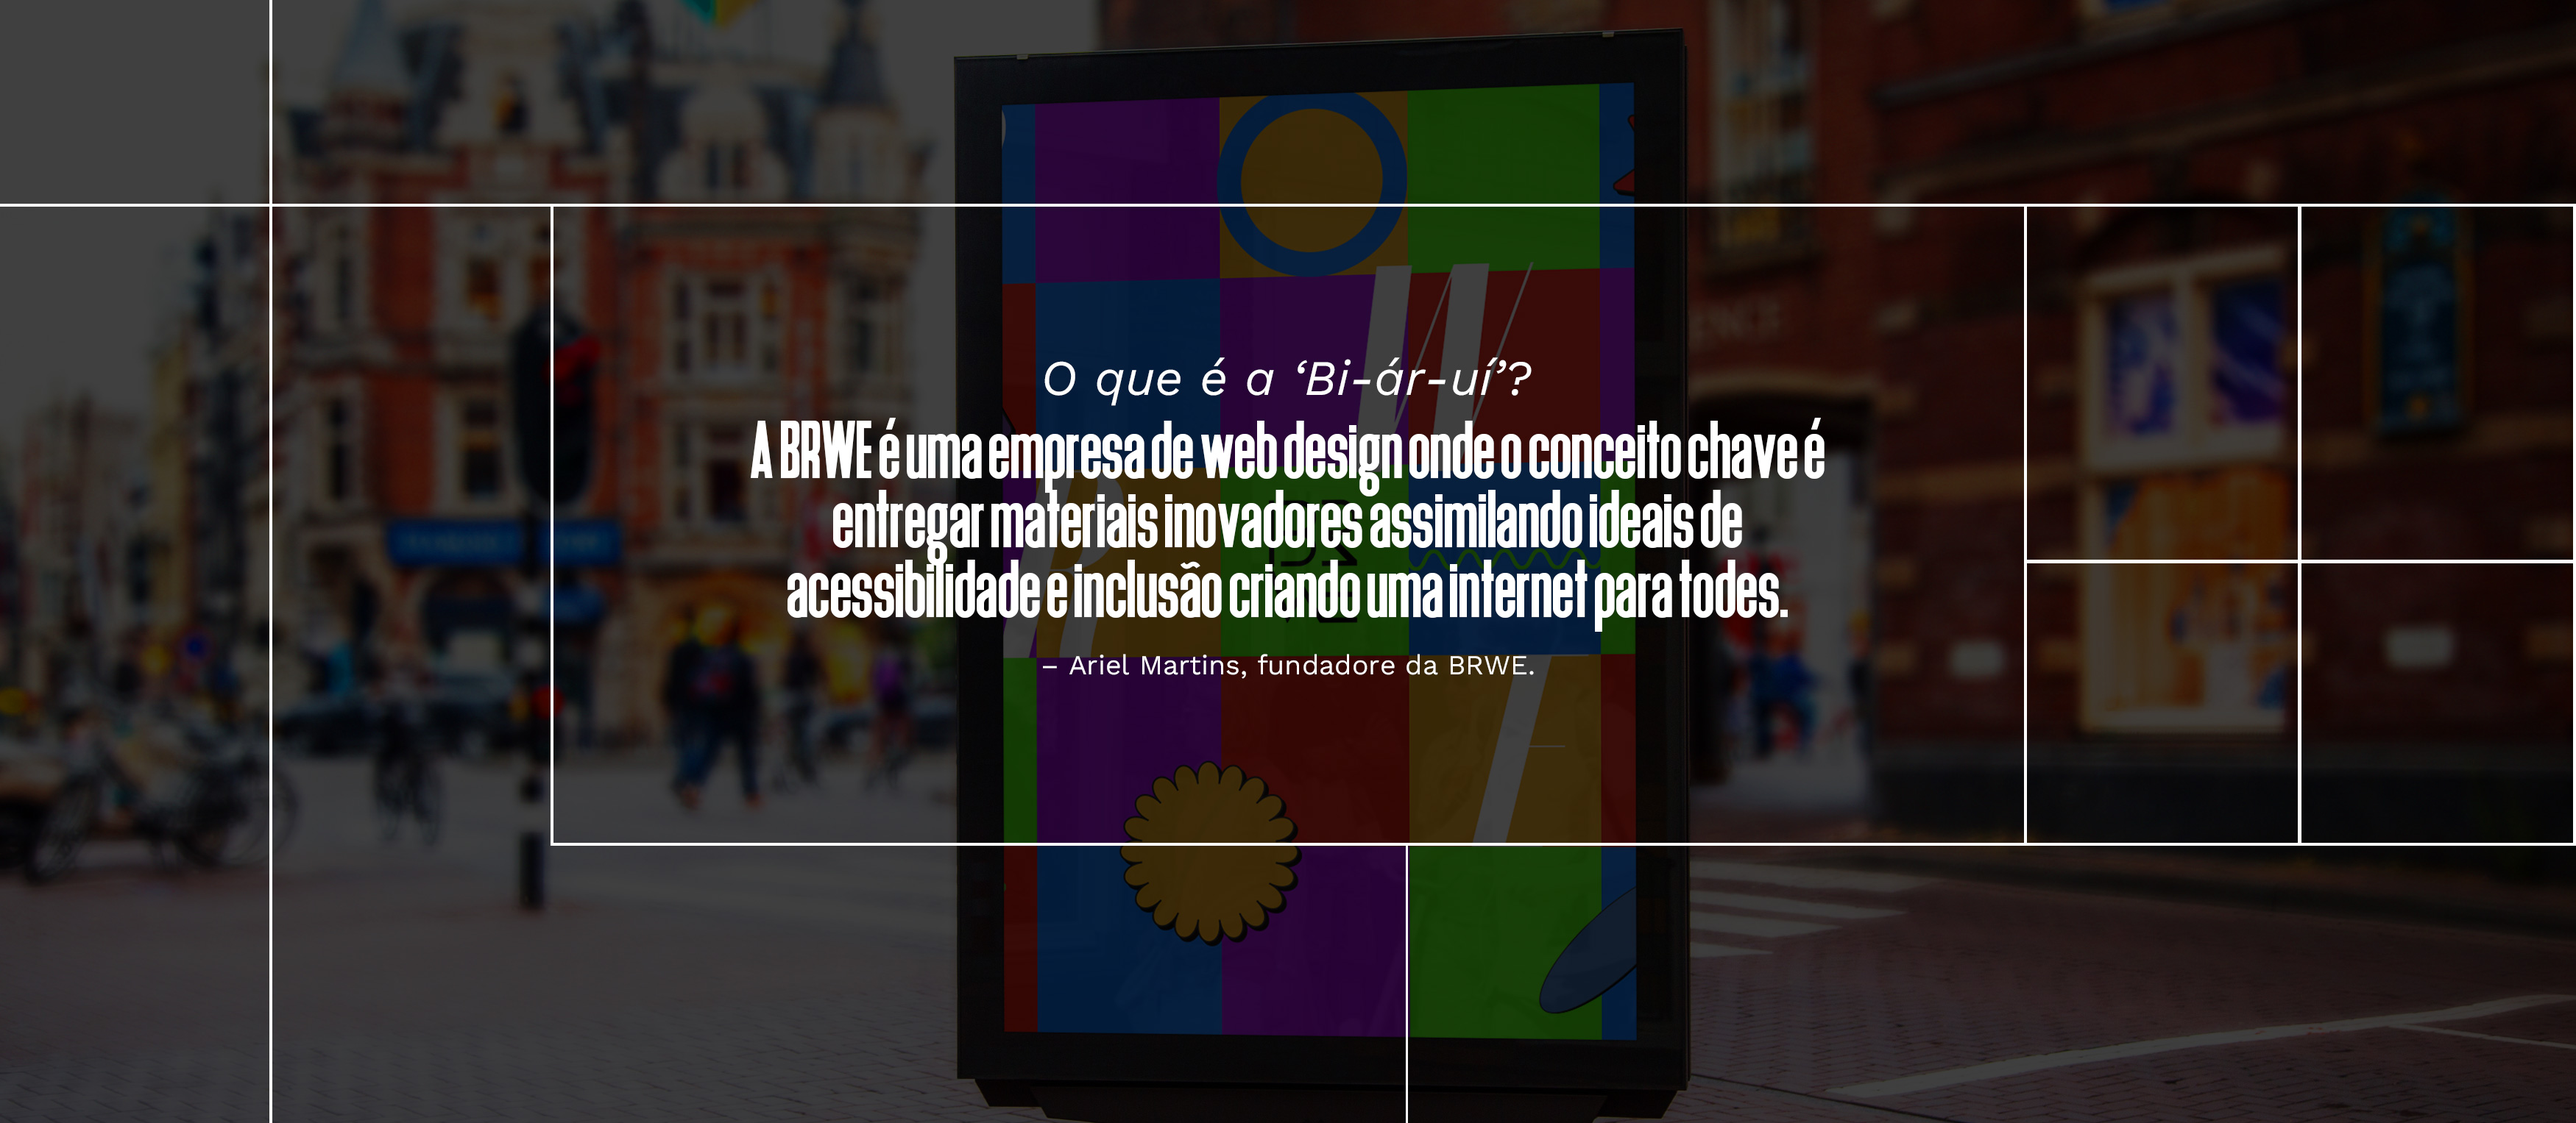
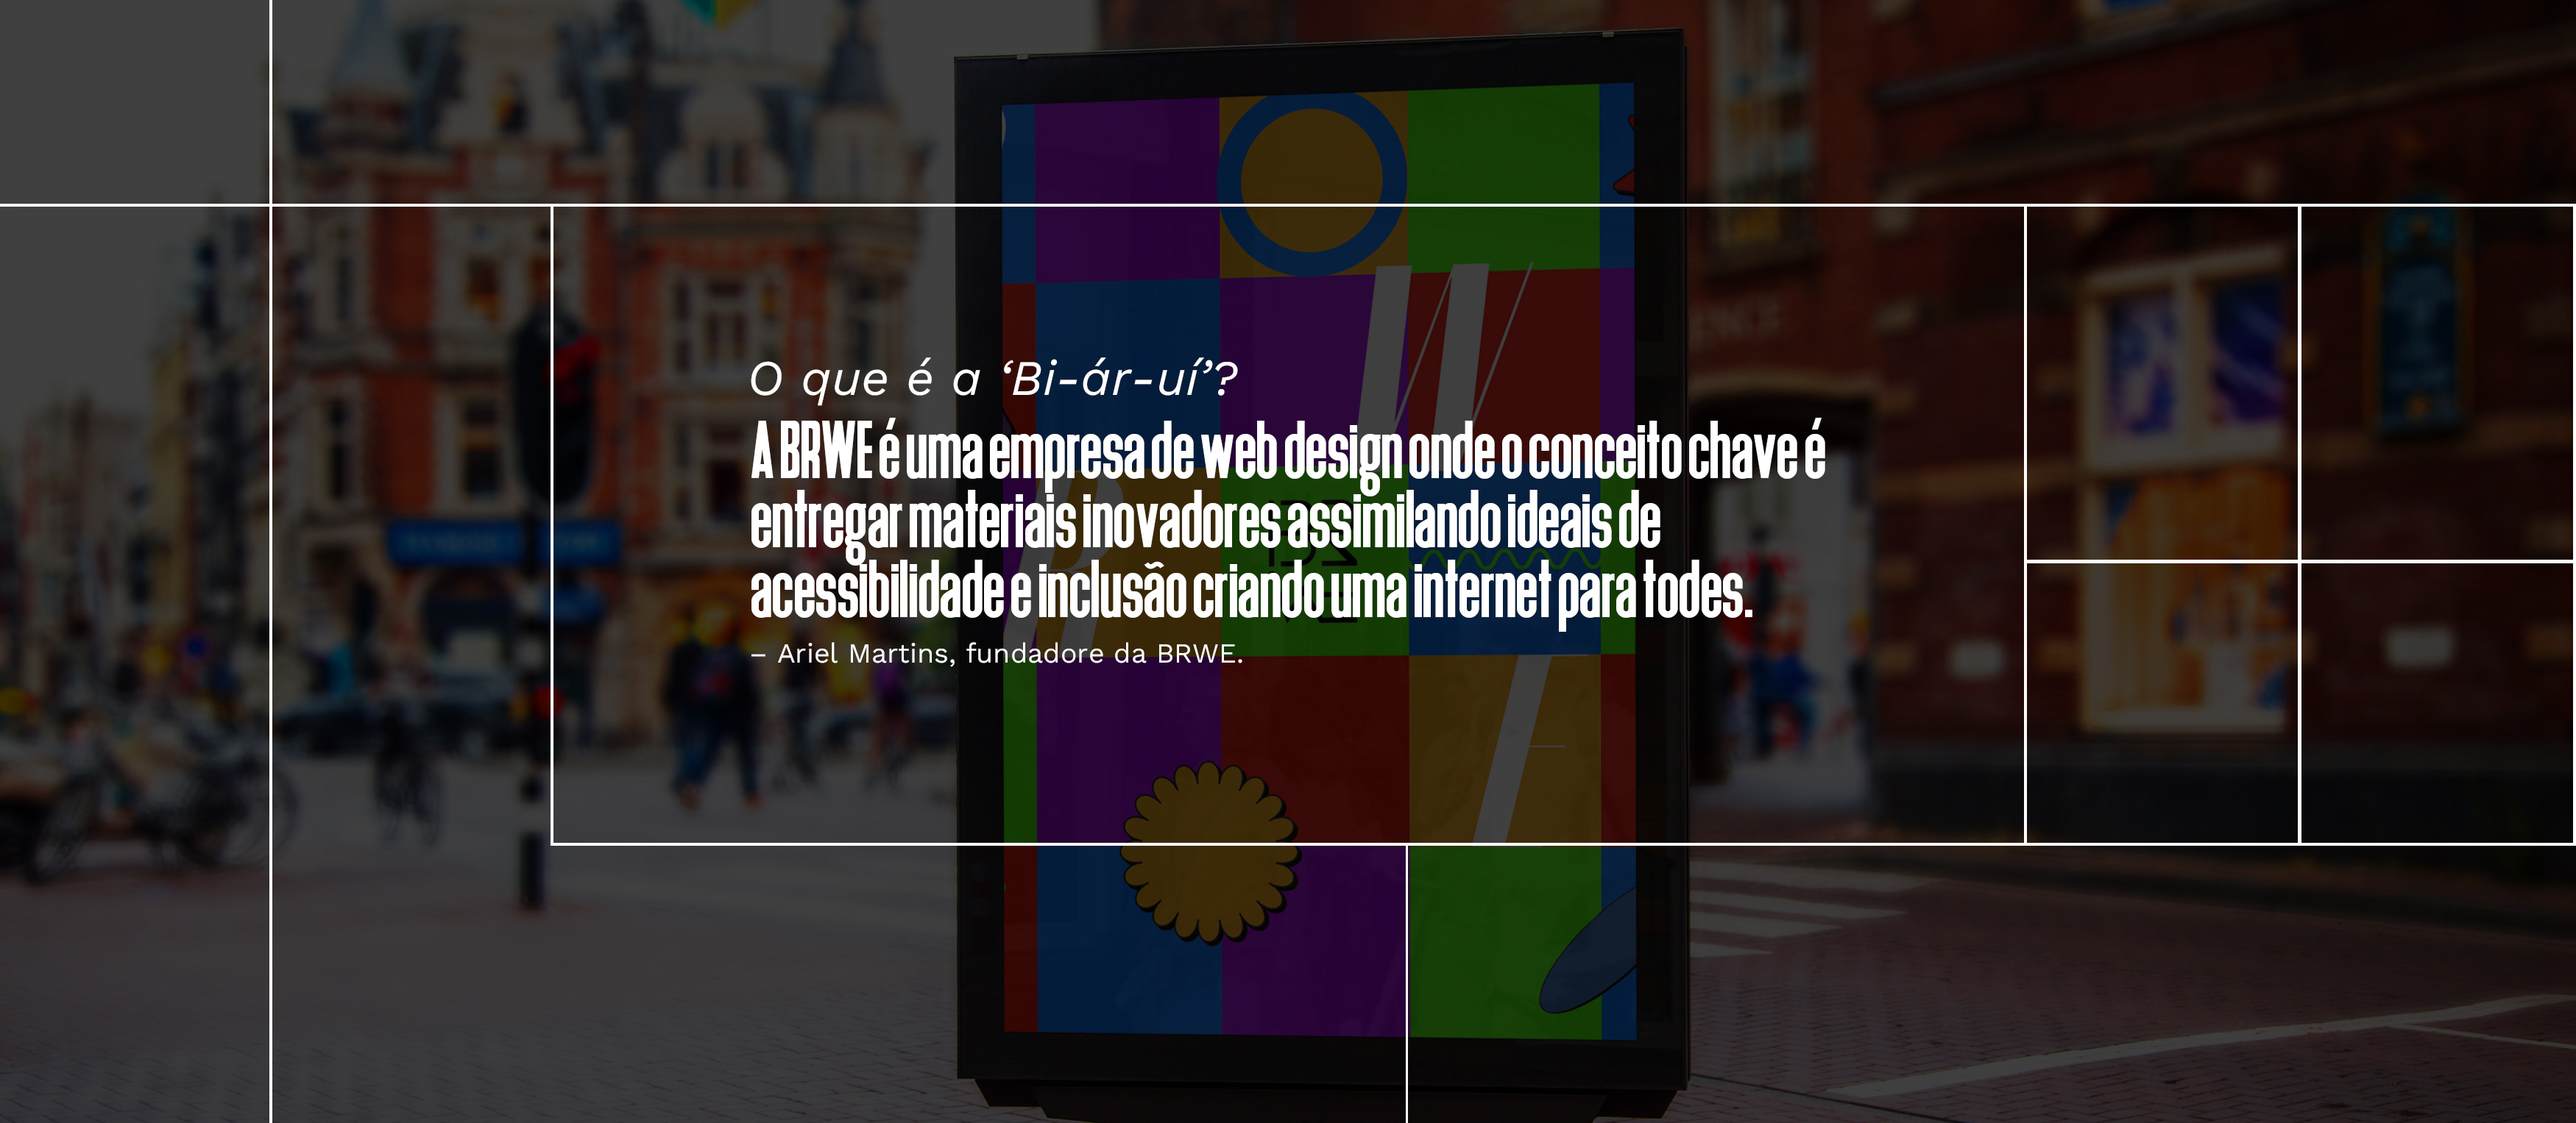
more stylizations + article update

Changed region(s): [[0.2803, 0.3078, 0.7163, 0.6156]]

diff --git a/index.html b/index.html
@@ -1,4 +1,4 @@
-<!DOCTYPE html5>
+<!DOCTYPE html>
     <html lang="pt-br">
         <head>
             <meta charset="utf-8">
@@ -24,7 +24,7 @@
                     <img src="./src/imgs/main_banner.svg" alt="Grid com banners retângulos com as palavras 'Design',
                     'Acessibilidade', 'Responsividade', 'Performance' e 'BRWE', dentro dos mesmos.">
                     <div id="main__box">
-                        <div id="main__text" class="pai">
+                        <div id="main__inner_box" class="pai">
                             <h1 class="subtitulo">Procurando soluções em</br>Design ou Front-End?</h1>
                             <h2 class="texto-corrido">Seja bem vinde ao <strong>BRWE</strong> Design Studio.</h2>
                         </div>
@@ -37,19 +37,21 @@
                 chave é entregar materiais inovadores assimilando ideais de acessibilidade e inclusão criando uma 
                 internet para todes. – XXXX XXXX, fundador da BRWE.'">
             </article>
-            <section class="grid">
-                <h1>Missão</h1>
-                <p>Apresentar medidas práticas e incisivas de inclusão, ainda assim consideração as noções estéticas 
-                presentes nas tendências atuais do Web Design. Com isso, levar acessibilidade para a internet, 
-                aplicando, de fato, o conceito de internet para todes.</p>
-                <h1>Valores</h1>
-                <p>- Abertura para o novo e o “diferente”: Toda consideração é válida, pois aprender com as 
-                diferenças é o que nos torna seres humanos. Além disso, nossos 3 pilares consistem em: 
-                Aceitabilidade, acessibilidade e performance.</p>
+            <section id="section__institucional" class="pai">
+                <div id="section__institucional_texto">
+                    <h1 id="missao" class="titulo">Missão</h1>
+                    <p class="texto-corrido">Apresentar medidas práticas e incisivas de inclusão, ainda assim consideração as noções estéticas 
+                    presentes nas tendências atuais do Web Design. Com isso, levar acessibilidade para a internet, 
+                    aplicando, de fato, o conceito de internet para todes.</p>
+                    <h1 id="valores" class="titulo">Valores</h1>
+                    <p class="texto-corrido">- Abertura para o novo e o “diferente”: Toda consideração é válida, pois aprender com as 
+                    diferenças é o que nos torna seres humanos. Além disso, nossos 3 pilares consistem em: 
+                    Aceitabilidade, acessibilidade e performance.</p>
+                </div>
                 <img src="./src/imgs/banner-softwares.gif" alt="Gif com banners de diferentes softwares de 
                 criação animados com uma marca d'agua no canto inferior direito escrito 'jitter.video'">
             </section>
-            <section class="container">
+            <section id="section__projetos">
                 <img src="./src/imgs/tag_dg.svg" alt="Estrela verde de 7 pontas arredondadas com 'Design Gráfico' dentro">
                 <img src="./src/imgs/tag_motion.svg" alt="Triângulo azul de pontas arredondadas escrito 'Motion' dentro">
                 <img src="./src/imgs/tag_ui.svg" alt="Triângulo roxo de pontas arredondadas escrito 'UI UX' dentro"> 
@@ -80,18 +82,20 @@
                     <img src="./" alt=""> 
                 </div> -->
             </section>
-            <section>
-                <h1>Links Externos</h1>
-                <a href="https://br.linkedin.com" target="_blank" rel="noopener noreferrer"><img 
-                src="./src/imgs/logo-linkedin.svg" alt="Logo da rede social Linkedin"></a>
-                <a href="https://github.com" target="_blank" rel="noopener noreferrer"><img 
-                src="./src/imgs/logo-github.svg" alt="Logo da plataforma GitHub"></a>
-                <a href="https://linktr.ee" target="_blank" rel="noopener noreferrer"><img 
-                src="./src/imgs/logo-linktree.svg" alt="Logo da rede social Linktree"></a>
-                <a href="https://www.behance.net/" target="_blank" rel="noopener noreferrer"><img 
-                src="./src/imgs/logo-behance.svg" alt="Logo da plataforma Behance"></a>    
+            <section id="section__links_externos" class="pai">
+                <h1 class="titulo">Links Externos</h1>
+                <div id="section__links" class="pai">
+                    <a href="https://br.linkedin.com" target="_blank" rel="noopener noreferrer"><img 
+                    src="./src/imgs/logo-linkedin.svg" alt="Logo da rede social Linkedin"></a>
+                    <a href="https://github.com" target="_blank" rel="noopener noreferrer"><img 
+                    src="./src/imgs/logo-github.svg" alt="Logo da plataforma GitHub"></a>
+                    <a href="https://linktr.ee" target="_blank" rel="noopener noreferrer"><img 
+                    src="./src/imgs/logo-linktree.svg" alt="Logo da rede social Linktree"></a>
+                    <a href="https://www.behance.net/" target="_blank" rel="noopener noreferrer"><img 
+                    src="./src/imgs/logo-behance.svg" alt="Logo da plataforma Behance"></a> 
+                </div>
             </section>
-            <footer class="container">
+            <footer class="pai texto-corrido">
                 <p>© BRWE Design Studio, 2023.</p>
             </footer>
         </body>

diff --git a/styles/style.css b/styles/style.css
@@ -94,24 +94,87 @@ main #main__content #main__box {
   left: 746px;
   top: 392px;
 }
-main #main__content #main__box #main__text {
+main #main__content #main__box #main__inner_box {
   flex-direction: column;
   justify-content: center;
   position: absolute;
   top: 56px;
   left: 111px;
 }
-main #main__content #main__box #main__text h1 {
+main #main__content #main__box #main__inner_box h1 {
   font-weight: lighter;
   font-size: 36px;
+  letter-spacing: -1px;
   margin: 0px;
 }
-main #main__content #main__box #main__text h2 {
+main #main__content #main__box #main__inner_box h2 {
   font-size: 56px;
   margin: 0px;
 }
-main #main__content #main__box #main__text h2 strong {
+main #main__content #main__box #main__inner_box h2 strong {
   color: #0673FA;
+}
+
+#section__institucional {
+  height: 655px;
+  justify-content: center;
+  align-items: center;
+  gap: 95px;
+}
+#section__institucional #section__institucional_texto {
+  width: 560px;
+  height: 510px;
+  position: relative;
+  top: 30px;
+  left: 30px;
+}
+#section__institucional #section__institucional_texto h1 {
+  font-size: 50px;
+  font-weight: 100;
+  margin: 0px;
+}
+#section__institucional #section__institucional_texto p {
+  font-size: 42px;
+  margin: 0px;
+}
+#section__institucional #section__institucional_texto #valores {
+  margin-top: 12px;
+}
+#section__institucional img {
+  width: 600px;
+  height: 511px;
+}
+
+#section__projetos img {
+  width: 20%;
+  height: 20%;
+}
+
+#section__links_externos {
+  height: 284px;
+  align-items: center;
+  justify-content: center;
+  flex-direction: column;
+}
+#section__links_externos h1 {
+  font-size: 57px;
+  font-weight: 100;
+  margin: 0 0 16px 0;
+}
+#section__links_externos #section__links {
+  gap: 32px;
+}
+
+footer {
+  height: 80px;
+  background-color: #0673FA;
+  align-items: center;
+  justify-content: center;
+}
+footer p {
+  color: white;
+  font-size: 57px;
+  margin: 0px;
 }
 
 /* HTML */

diff --git a/styles/components/_section-inst.scss b/styles/components/_section-inst.scss
@@ -1,0 +1,36 @@
+@import '../abstract/variaveis';
+
+#section__institucional {
+    height: 655px;
+    justify-content: center;
+    align-items: center;
+    gap: 95px;
+
+    #section__institucional_texto {
+        width: 560px;
+        height: 510px;
+        position: relative;
+        top: 30px;
+        left: 30px;
+        
+        h1 {
+            font-size: 50px;
+            font-weight: 100;
+            margin: 0px;
+        }
+    
+        p {
+            font-size: 42px;
+            margin: 0px;
+        }
+        
+        & #valores {
+            margin-top: 12px;
+        }
+    }
+
+    img {
+        width: 600px;
+        height: 511px;
+    }
+}

diff --git a/styles/components/_main.scss b/styles/components/_main.scss
@@ -23,7 +23,7 @@ main {
             left: 746px;
             top: 392px;
 
-            #main__text {
+            #main__inner_box {
                 flex-direction: column;
                 justify-content: center;
                 position: absolute;
@@ -33,6 +33,7 @@ main {
                 h1 {
                     font-weight: lighter;
                     font-size: 36px;
+                    letter-spacing: -1px;
                     margin: 0px;
                 }
     

diff --git a/styles/components/_section-links.scss b/styles/components/_section-links.scss
@@ -1,0 +1,19 @@
+@import '../abstract/variaveis';
+
+#section__links_externos {
+    height: 284px;
+    align-items: center;
+    justify-content: center;
+    flex-direction: column;
+
+    h1 {
+        font-size: 57px;
+        font-weight: 100;
+        margin: 0 0 16px 0;
+    }
+
+    #section__links {
+        gap: 32px;
+    }
+
+}

diff --git a/styles/components/_footer.scss b/styles/components/_footer.scss
@@ -1,0 +1,14 @@
+@import '../abstract/variaveis';
+
+footer {
+    height: 80px;
+    background-color: $cor-paleta-azul;
+    align-items: center;
+    justify-content: center;
+    
+    p {
+        color: white;
+        font-size: 57px;
+        margin: 0px;
+    }
+}

diff --git a/styles/style.scss b/styles/style.scss
@@ -1,6 +1,10 @@
 @import './abstract/base';
 @import './components/navbar';
 @import './components/main';
+@import './components/section-inst';
+@import './components/section-project';
+@import './components/section-links';
+@import './components/footer';
 
 /* HTML */
 

diff --git a/styles/components/_section-project.scss b/styles/components/_section-project.scss
@@ -1,0 +1,8 @@
+@import '../abstract/variaveis';
+
+#section__projetos {
+    img {
+        width: 20%;
+        height: 20%;
+    }
+}
